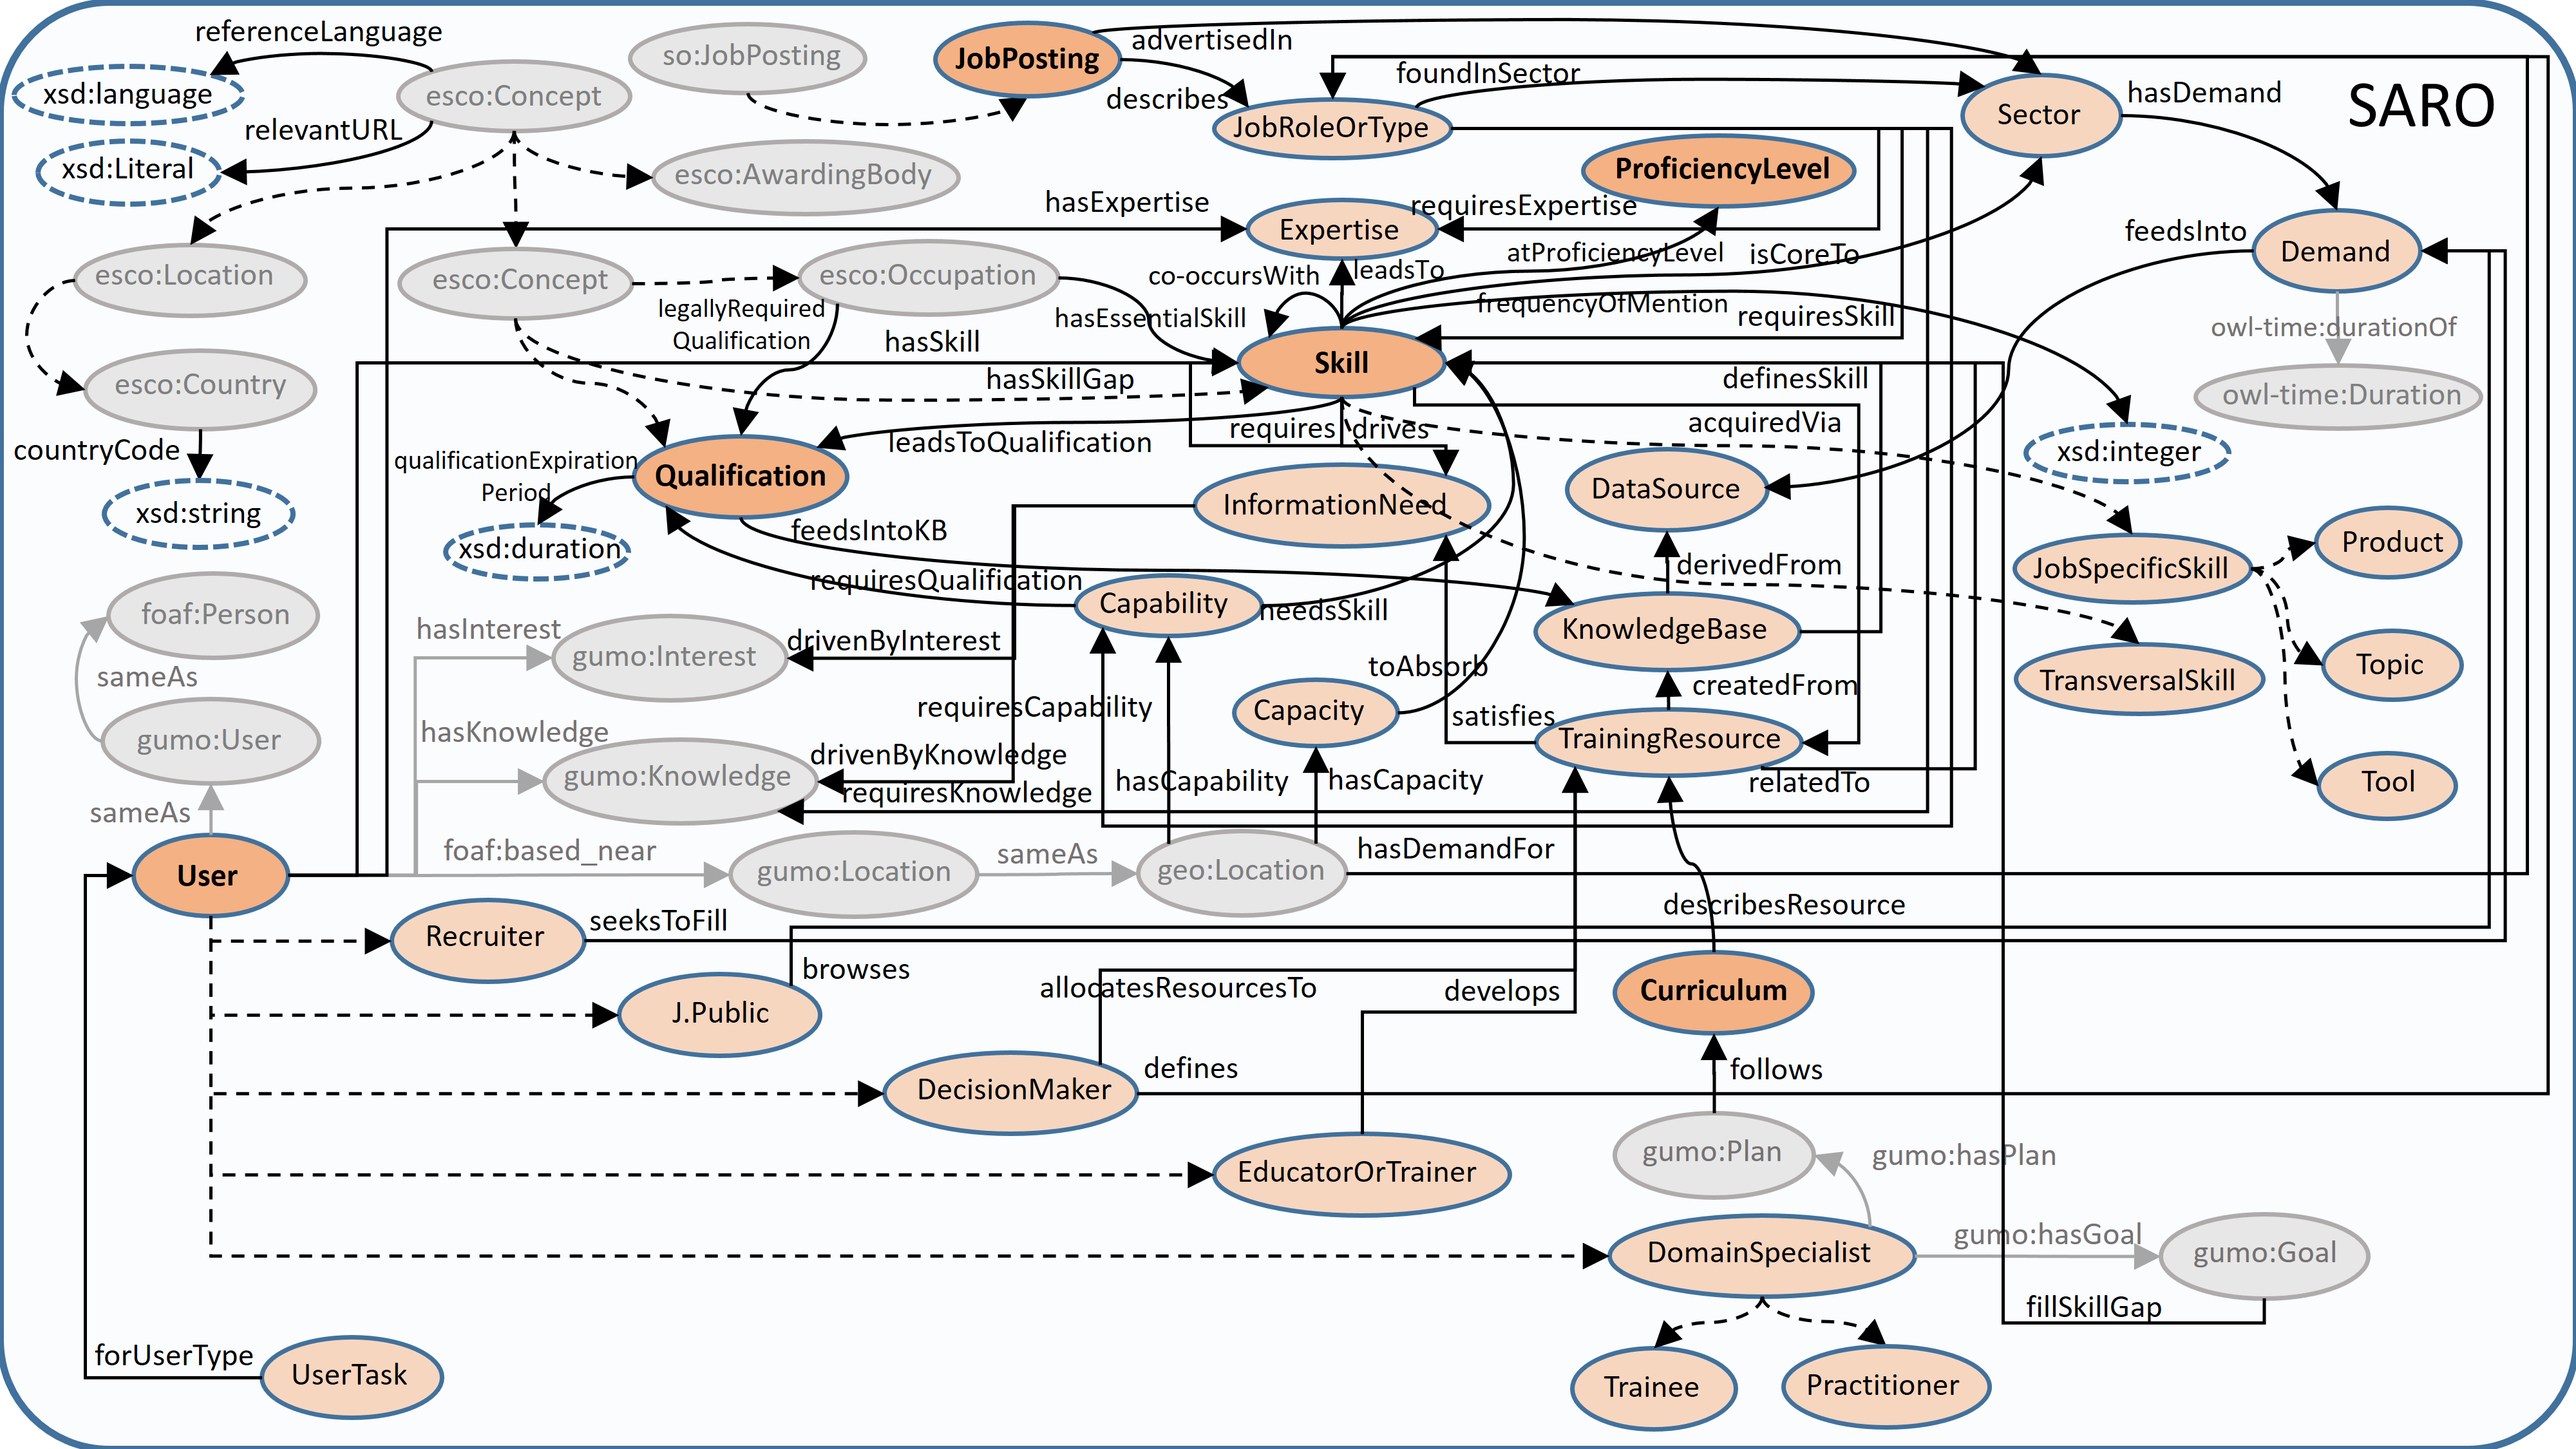
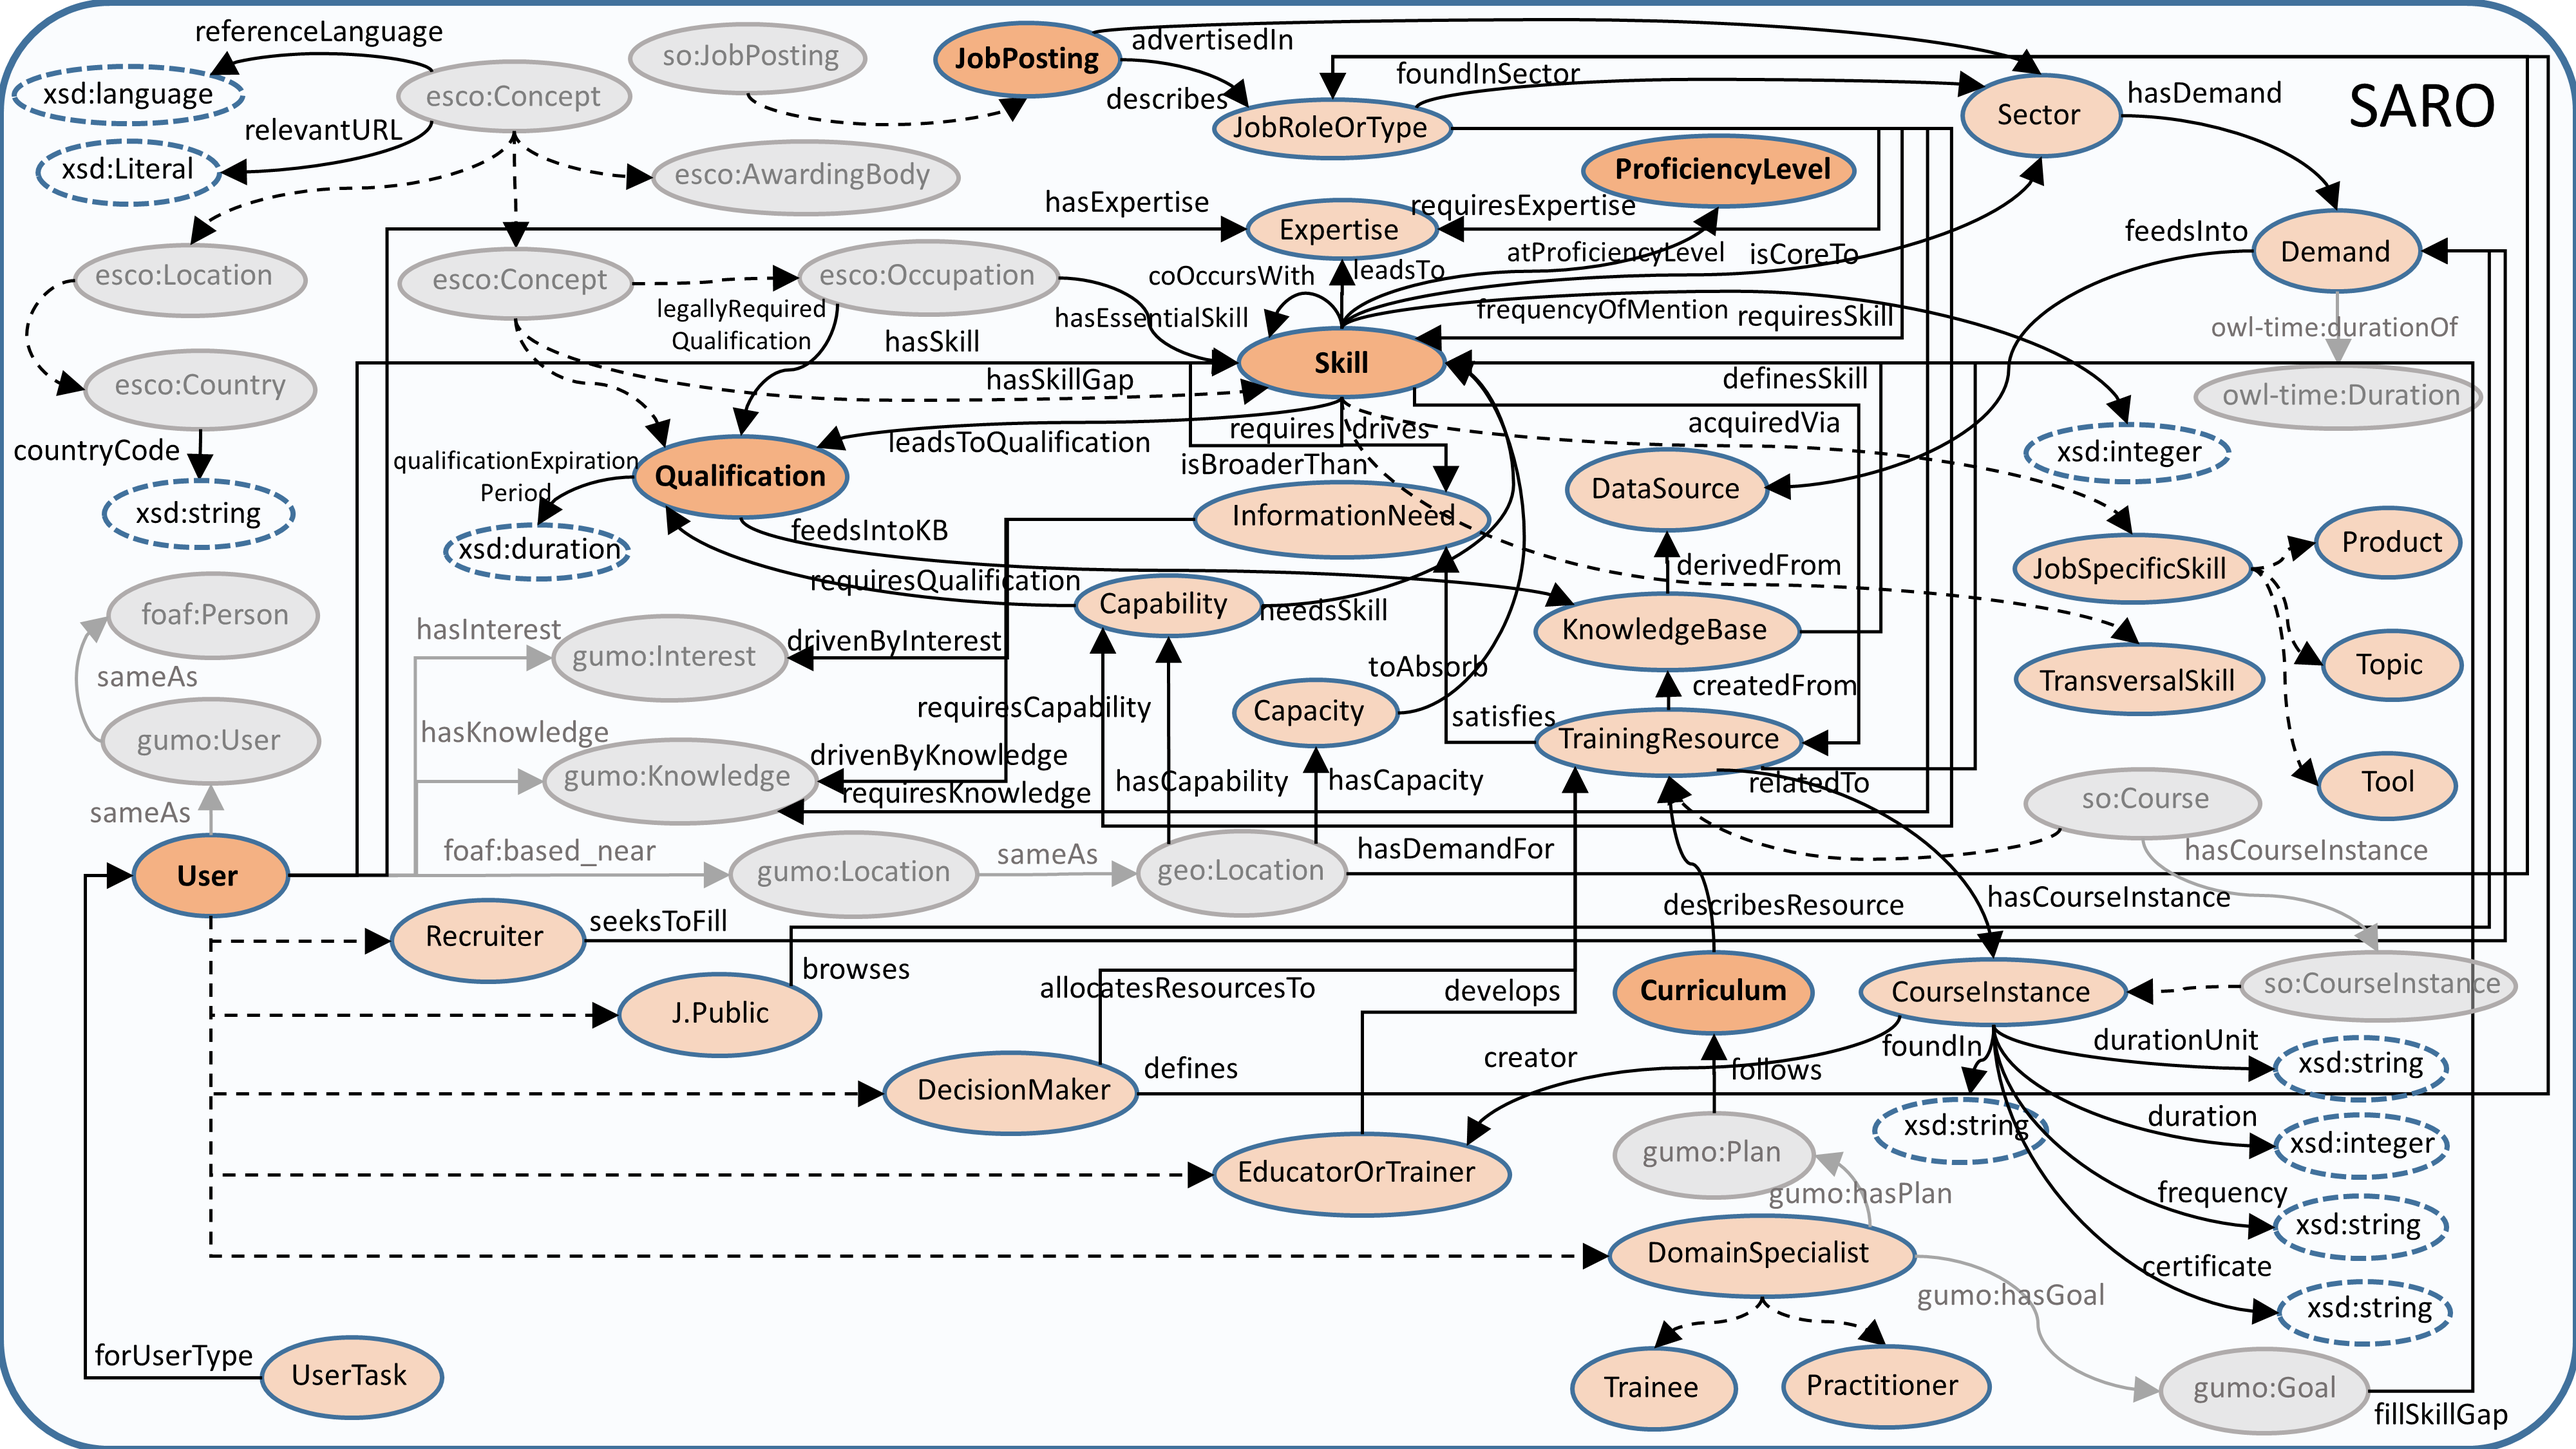
add isBroaderThan

diff --git a/index.html b/index.html
@@ -18,7 +18,7 @@
 <h1>Skills and Recruitment Ontology</h1>
 
 
-<big style="color: rgb(0, 90, 156);">Updated: July 2019</big>
+<big style="color: rgb(0, 90, 156);">Updated: September 2020</big>
 
 <br>
 
@@ -27,7 +27,7 @@
 
   <dt>Authors:</dt>
 
-  <dd>Elisa Margareth Sibarani, University of Bonn, <a href="mailto:sibarani@cs.uni-bonn.de">sibarani@cs.uni-bonn.de</a></dd>
+  <dd>Elisa Margareth Sibarani, Fraunhofer IAIS, Germany, <a href="mailto:sibarani@cs.uni-bonn.de">elisa.margareth.sibarani@iais.fraunhofer.de</a></dd>
   <dd>Simon Scerri, Fraunhofer IAIS, Germany, <a href="mailto:simon.scerri@iais.fraunhofer.de">simon.scerri@iais.fraunhofer.de</a></dd>
   <dd>Aba-Sah Dadzie, KMi, The Open University, UK, <a href="mailto:aba-sah.dadzie@open.ac.uk">aba-sah.dadzie@open.ac.uk</a></dd>
 </dl>
@@ -38,7 +38,7 @@
   <dt>Editor:</dt>
   
   
-  <dd>Elisa Margareth Sibarani, University of Bonn, <a href="mailto:sibarani@cs.uni-bonn.de">sibarani@cs.uni-bonn.de</a></dd>
+  <dd>Elisa Margareth Sibarani, Fraunhofer IAIS, <a href="mailto:sibarani@cs.uni-bonn.de">elisa.margareth.sibarani@iais.fraunhofer.de</a></dd>
   <dd>Simon Scerri, Fraunhofer IAIS, <a href="mailto:simon.scerri@iais.fraunhofer.de">simon.scerri@iais.fraunhofer.de</a></dd>
 </dl>
 
@@ -463,6 +463,28 @@ covered in the specifications below. For an example list please refer to
 <tr><td>Description </td><td> This class represents list of skills which are relevant to a broad range of occupations and sectors. They are often referred to as core skills, basic skills or soft skills </td></tr> 
 </table>
 
+<a name="Language">
+<h3>Language</h3>
+
+<table class="ontdoctable"> 
+<tr><td class="rowheader">Superclasses </td><td> saro:TransversalSkill, rdfs:Resource</td></tr> 
+<tr><td class="rowheader">Subclasses </td><td> --</td></tr> 
+<tr><td class="rowheader">In domain of: </td><td> --</td></tr> 
+<tr><td class="rowheader">In range of: </td><td> --</td></tr> 
+<tr><td>Description </td><td> Ability in spoken or written natural languages, as a skill </td></tr> 
+</table>
+
+
+<a name="ComplexSkill">
+<h3>ComplexSkill</h3>
+
+<table class="ontdoctable"> 
+<tr><td class="rowheader">Superclasses </td><td> esco:Concept, rdfs:Resource,  <a href="#Skill">saro:Skill</a></td></tr> 
+<tr><td class="rowheader">Subclasses </td><td> --</td></tr> 
+<tr><td class="rowheader">In domain of: </td><td> <a href="#subSkill">saro:subSkill</a></td></tr> 
+<tr><td class="rowheader">In range of: </td><td> --</td></tr> 
+<tr><td>Description </td><td> A specialised skill that is composed of multiple other known skills, e.g. IT Project Management, but is not as yet defined as a standalone skill </td></tr> 
+</table>
 
 <a name="User">
 <h3>User</h3>
@@ -489,6 +511,19 @@ covered in the specifications below. For an example list please refer to
 
 
 <h2>Ontology Properties Description</h2>
+
+<a name="subSkill">
+<h3>subSkill</h3> 
+
+<table class="ontdoctable"> 
+<tr><td class="rowheader">Type </td><td> rdf:Property, rdfs:Resource</td></tr> 
+<tr><td class="rowheader">Domain </td><td>  <a href="#Skill">saro:ComplexSkill</a></td></tr> 
+<tr><td class="rowheader">Range </td><td>  <a href="#TrainingResource">saro:Skill</a></td></tr> 
+<tr><td class="rowheader">Superproperties </td><td> --</td></tr> 
+<tr><td class="rowheader">Subproperties </td><td> --</td></tr> 
+<tr><td>Description </td><td> A subskill that a complex skill is composed of. </td></tr> 
+</table>
+
 
 <a name="acquiredVia">
 <h3>acquiredVia</h3> 
@@ -1100,6 +1135,16 @@ covered in the specifications below. For an example list please refer to
 <tr><td>Description </td><td> This property is used to refer to a capacity which could absorb the specific skill.</td></tr> 
 </table>
 
+<a name="isBroaderThan">
+<h3>isBroaderThan</h3> 
 
+<table class="ontdoctable"> 
+<tr><td class="rowheader">Type </td><td> rdf:Property, rdfs:Resource</td></tr> 
+<tr><td class="rowheader">Domain </td><td>  <a href="#Capacity">saro:Skill</a></td></tr> 
+<tr><td class="rowheader">Range </td><td>  <a href="#Skill">saro:Skill</a></td></tr> 
+<tr><td class="rowheader">Superproperties </td><td> --</td></tr> 
+<tr><td class="rowheader">Subproperties </td><td> --</td></tr> 
+<tr><td>Description </td><td> A skill can be characterised by means of other related specific skills, or a skill can be mapped to a higher-level skills.</td></tr> 
+</table>
 
 </body></html>

diff --git a/saro.html b/saro.html
@@ -1086,6 +1086,17 @@ covered in the specifications below. For an example list please refer to
 <tr><td>Description </td><td> This property is used to refer to a capacity which could absorb the specific skill.</td></tr> 
 </table>
 
+<a name="isBroaderThan">
+<h3>isBroaderThan</h3> 
+
+<table class="ontdoctable"> 
+<tr><td class="rowheader">Type </td><td> rdf:Property, rdfs:Resource</td></tr> 
+<tr><td class="rowheader">Domain </td><td>  <a href="#Capacity">saro:Skill</a></td></tr> 
+<tr><td class="rowheader">Range </td><td>  <a href="#Skill">saro:Skill</a></td></tr> 
+<tr><td class="rowheader">Superproperties </td><td> --</td></tr> 
+<tr><td class="rowheader">Subproperties </td><td> --</td></tr> 
+<tr><td>Description </td><td> A skill can be characterised by means of other related specific skills, or a skill can be mapped to a higher-level skills.</td></tr> 
+</table>
 
 
 </body></html>
